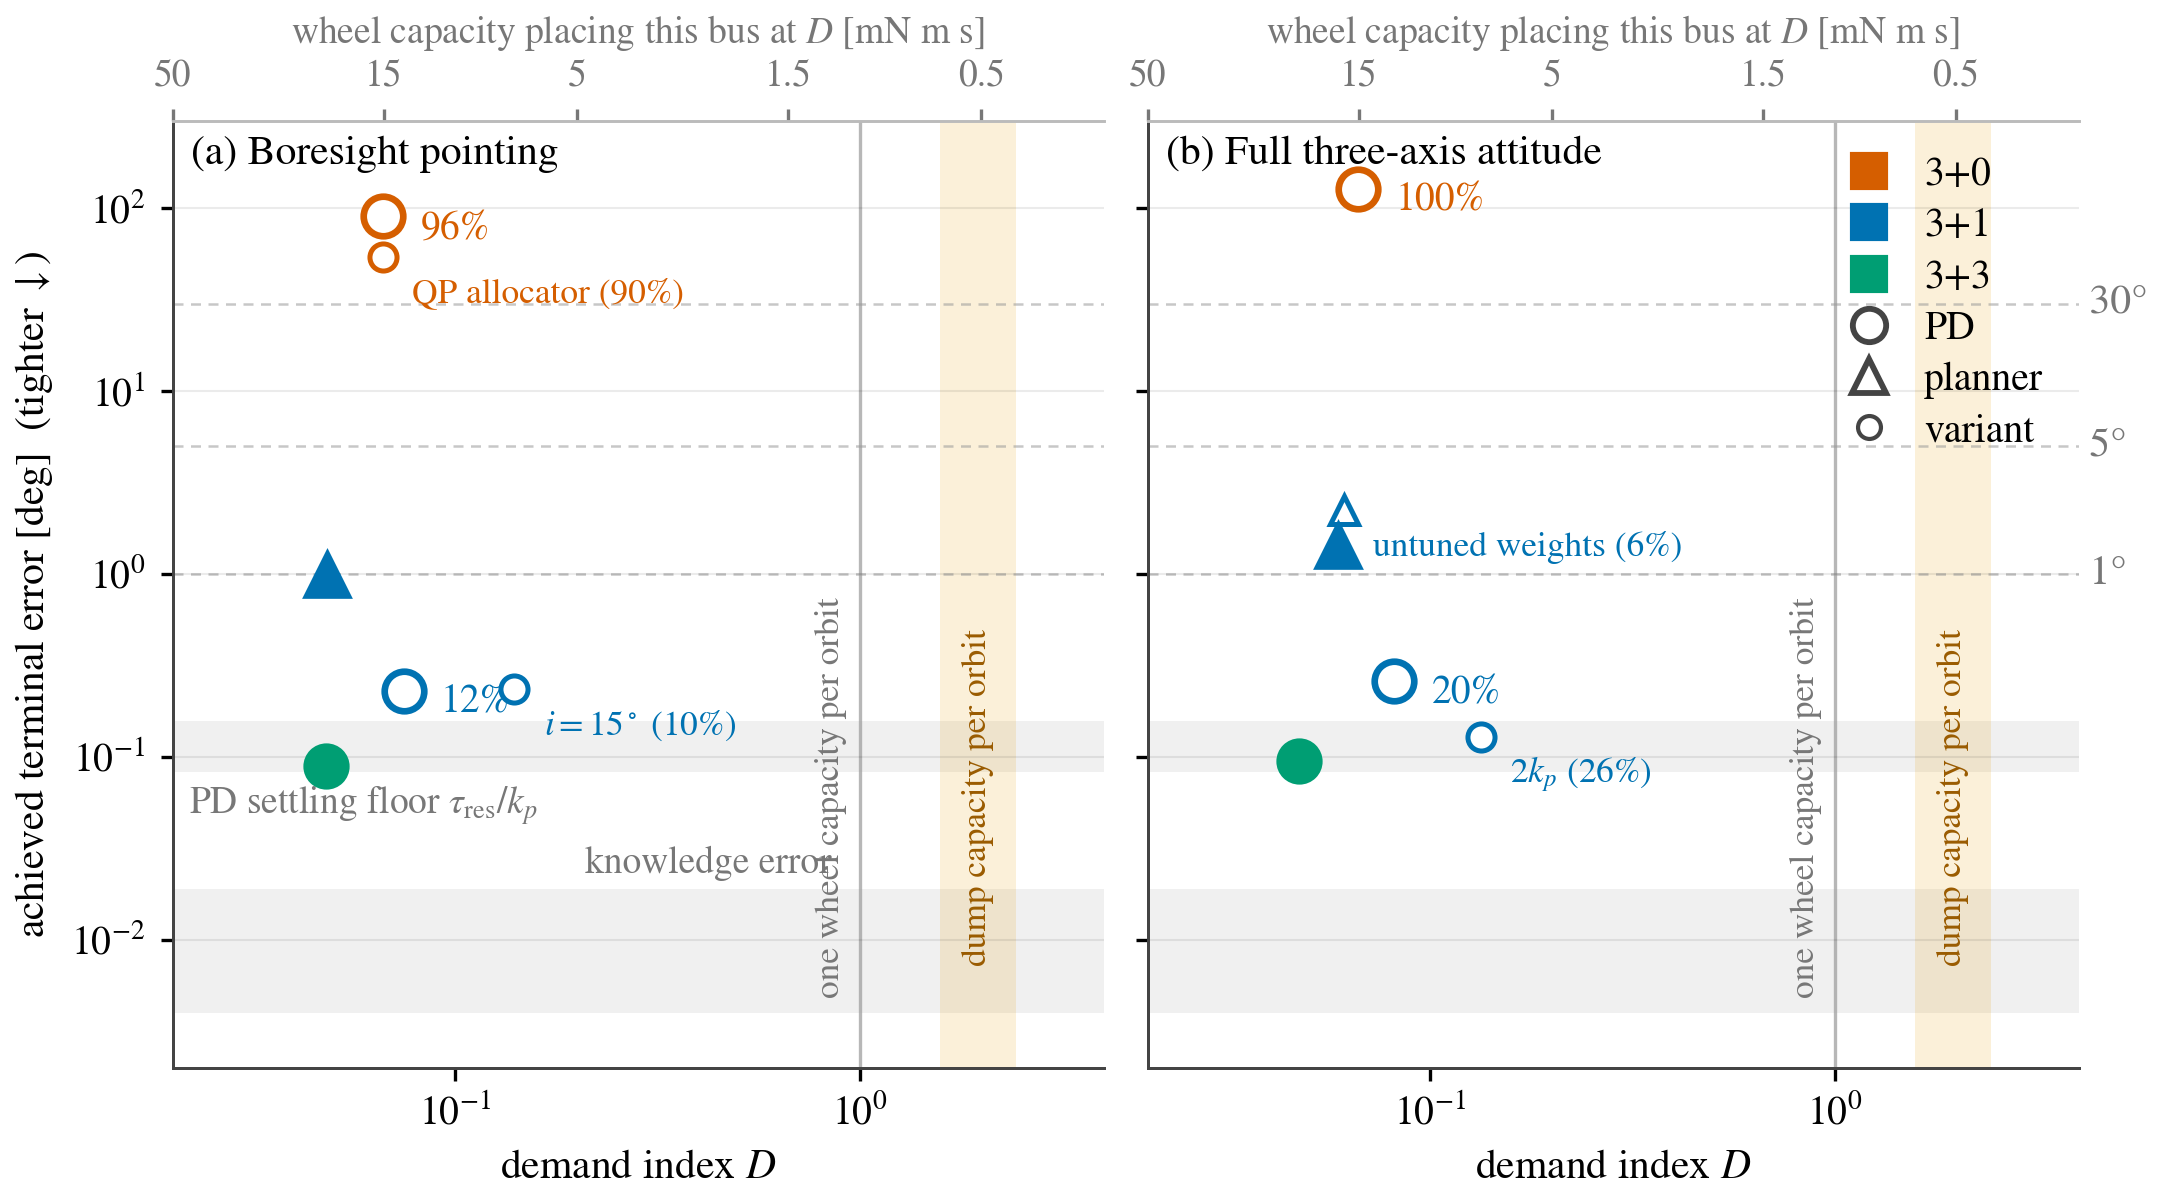
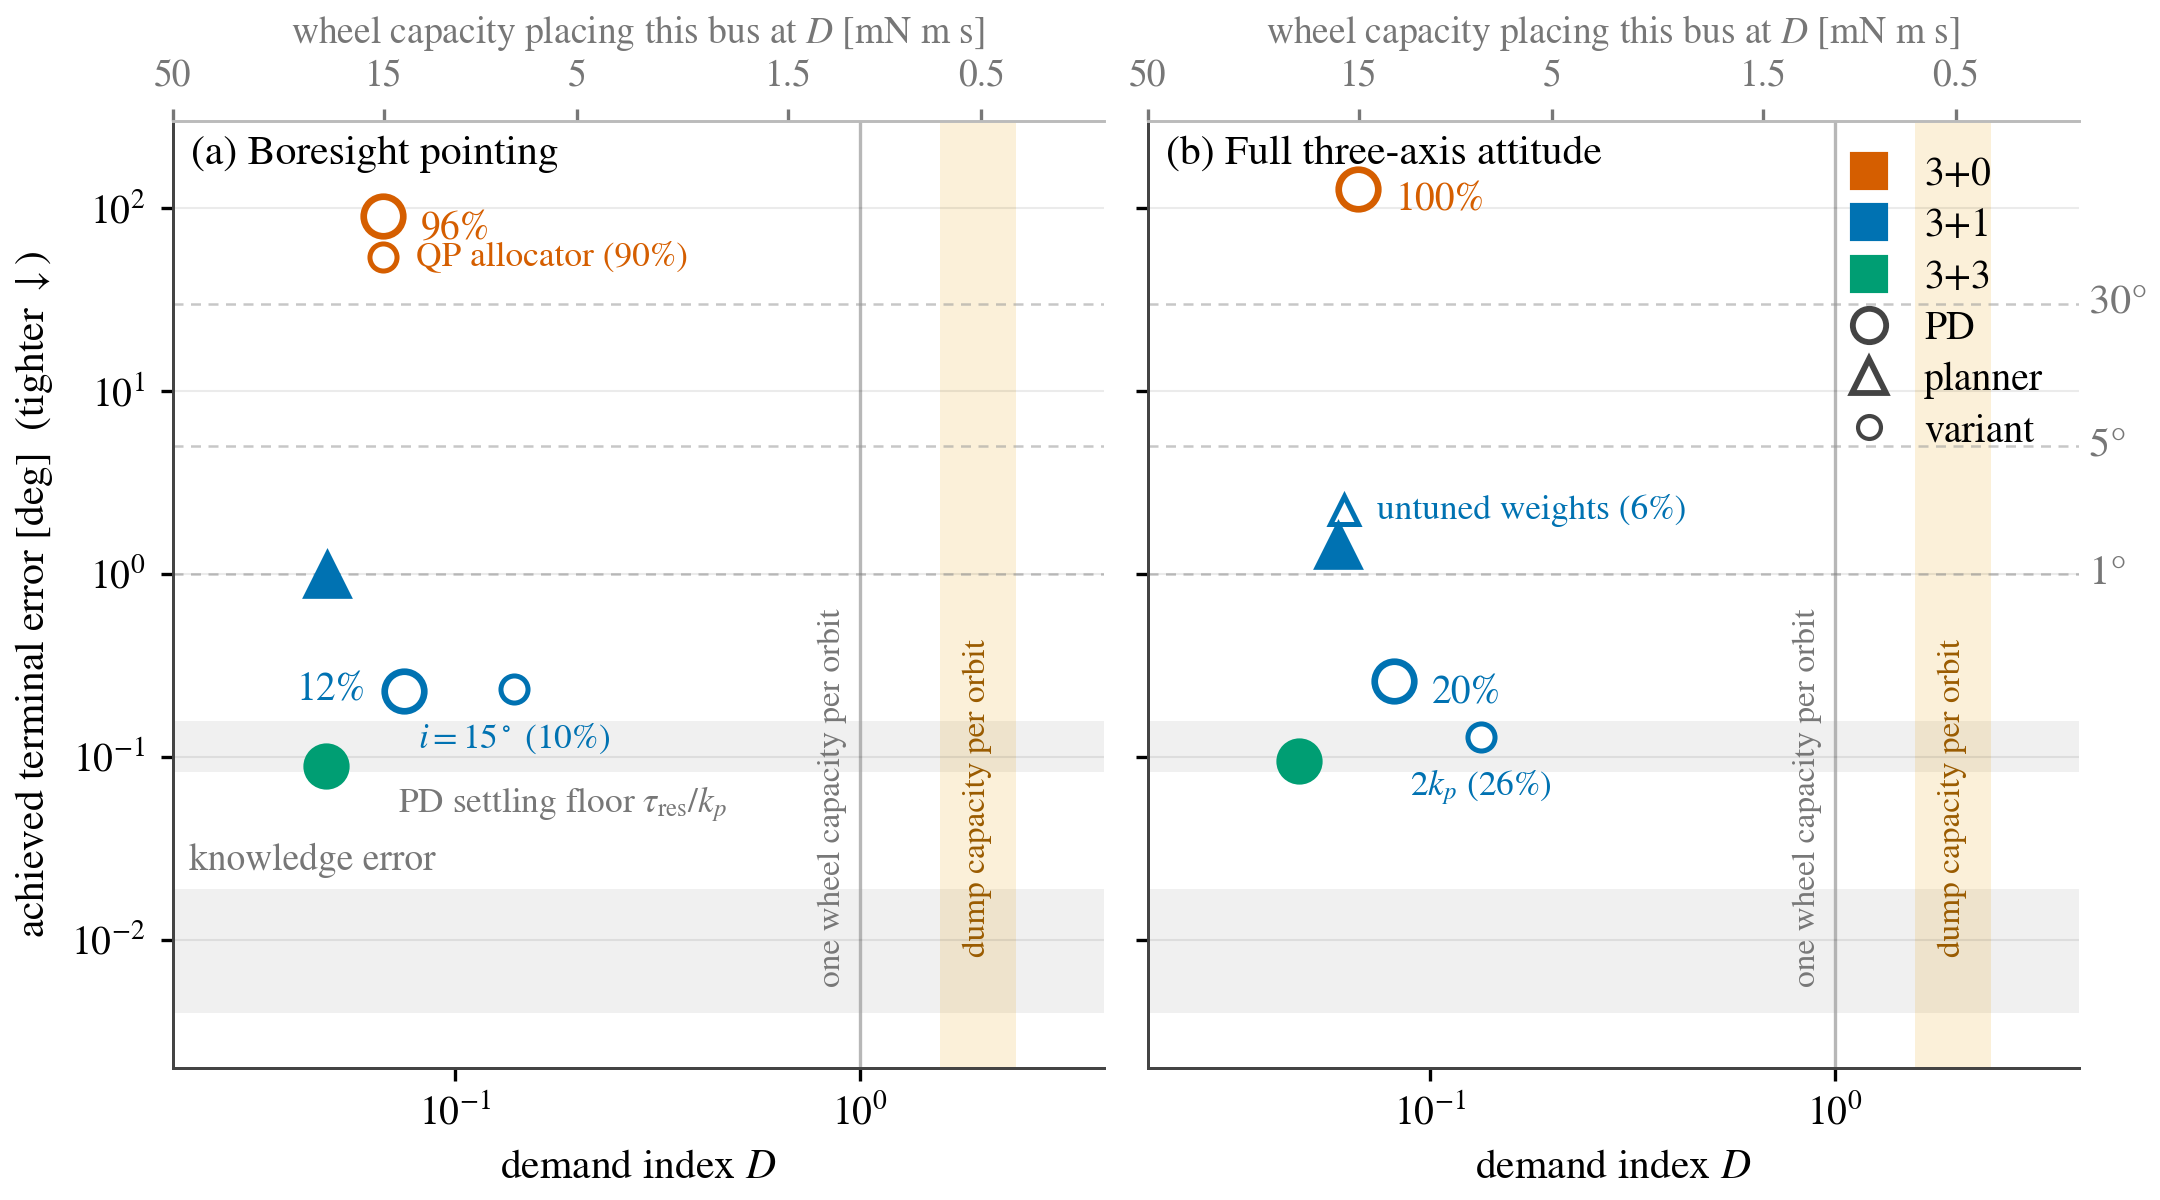
fig(IAC): v2 screening diagram -- label placement cleaned (no overlaps)

diff --git a/papers/IAC_1RW/fig3_envelope_v2.py b/papers/IAC_1RW/fig3_envelope_v2.py
@@ -76,10 +76,10 @@ def main():
     }
     qp = cell_stats(g("wave/qp_0rw_reduced/*.pkl")); qp["D"] = D_ref
     variants = {
-        "reduced": [("3+0", "PD", "QP allocator", qp),
-                    ("3+1", "PD", "$i=15^\\circ$", cell_stats(g("lowinc/*.pkl")))],
-        "full": [("3+1", "PD", "$2k_p$", cell_stats(g("wave/pd_full_kp2/*.pkl"))),
-                 ("3+1", "planner", "untuned weights", cell_stats(g("tune_seed*_wave_planner_full_base.pkl")))],
+        "reduced": [("3+0", "PD", "QP allocator", qp, (8, 0), "left"),
+                    ("3+1", "PD", "$i=15^\\circ$", cell_stats(g("lowinc/*.pkl")), (0, -12), "center")],
+        "full": [("3+1", "PD", "$2k_p$", cell_stats(g("wave/pd_full_kp2/*.pkl")), (0, -12), "center"),
+                 ("3+1", "planner", "untuned weights", cell_stats(g("tune_seed*_wave_planner_full_base.pkl")), (8, 0), "left")],
     }
     # PD settling floor tau_res / k_p: drag+GG (0.42 uN m) to +24% dipole residual (~0.8 uN m)
     floor_lo, floor_hi = np.degrees(0.42e-6 / KP), np.degrees(0.8e-6 / KP)
@@ -98,32 +98,34 @@ def main():
         ax.axhspan(floor_lo, floor_hi, color="#000000", alpha=0.06, lw=0, zorder=0)
         ax.axhspan(know_lo, know_hi, color="#000000", alpha=0.06, lw=0, zorder=0)
         if ax is axes[0]:
-            ax.text(0.022, floor_lo * 0.85, "PD settling floor $\\tau_{\\rm res}/k_p$",
-                    fontsize=9, color=GREY, ha="left", va="top")
-            ax.text(0.85, know_hi * 1.1, "knowledge error", fontsize=9, color=GREY,
-                    ha="right", va="bottom")
+            ax.text(0.072, floor_lo * 0.85, "PD settling floor $\\tau_{\\rm res}/k_p$",
+                    fontsize=8.5, color=GREY, ha="left", va="top")
+            ax.text(0.022, know_hi * 1.15, "knowledge error", fontsize=9, color=GREY,
+                    ha="left", va="bottom")
         # vertical structure
         ax.axvline(1.0, color="#999999", lw=0.8, alpha=0.7, zorder=1)
         ax.axvspan(cap_nadir, cap_inert, color="#E69F00", alpha=0.15, lw=0, zorder=0)
-        ax.text(0.93, 0.06, "one wheel capacity per orbit", fontsize=8.5, color=GREY,
+        ax.text(0.93, 0.06, "one wheel capacity per orbit", fontsize=8, color=GREY,
                 ha="right", va="center", rotation=90)
         ax.text(np.sqrt(cap_nadir * cap_inert), 0.06, "dump capacity per orbit",
-                fontsize=8.5, color="#9A5B00", ha="center", va="center", rotation=90)
+                fontsize=8, color="#9A5B00", ha="center", va="center", rotation=90)
         # variant cells first (behind), then the grid cells
-        for arch, ctrl, label, c in variants[task]:
+        for arch, ctrl, label, c, off, ha in variants[task]:
             col = ARCH[arch]
             ax.plot(c["D"], c["med"], CTRL[ctrl]["marker"], ms=6.5, mfc="white", mec=col,
                     mew=1.2, zorder=3)
             ax.annotate(f"{label} ({c['div']:.0f}%)", (c["D"], c["med"]), textcoords="offset points",
-                        xytext=(7, -9), fontsize=8.5, color=col, va="center")
+                        xytext=off, fontsize=8.5, color=col, va="center", ha=ha)
         for arch, ctrl, c in cells[task]:
             filled = c["div"] <= 2.0
             col = ARCH[arch]
             ax.plot(c["D"], c["med"], CTRL[ctrl]["marker"], ms=9.5,
                     mfc=col if filled else "white", mec=col, mew=1.6, zorder=4)
             if not filled:
+                left = (task == "reduced" and arch == "3+1" and ctrl == "PD")
                 ax.annotate(f"{c['div']:.0f}%", (c["D"], c["med"]), textcoords="offset points",
-                            xytext=(9, -3), fontsize=9.5, color=col, va="center")
+                            xytext=(-9, 0) if left else (9, -3), fontsize=9.5, color=col,
+                            va="center", ha="right" if left else "left")
         ax.set_xscale("log"); ax.set_yscale("log")
         ax.set_xlim(2e-2, 4.0); ax.set_ylim(2e-3, 3e2)
         fig_style.log_decades_only(ax)
@@ -151,7 +153,7 @@ def main():
         fig.savefig(os.path.join(OUT, f"fig3_envelope_v2.{ext}"))
     print(f"D_ref {D_ref:.3f}; dump capacity band {cap_nadir:.2f}-{cap_inert:.2f}; floor {floor_lo:.3f}-{floor_hi:.3f} deg")
     for task in variants:
-        for arch, ctrl, label, c in variants[task]:
+        for arch, ctrl, label, c, *_ in variants[task]:
             print(f"{task:8s} variant {label:16s} D={c['D']:.3f} med={c['med']:.2f} div={c['div']:.0f}%")
     return 0
 
